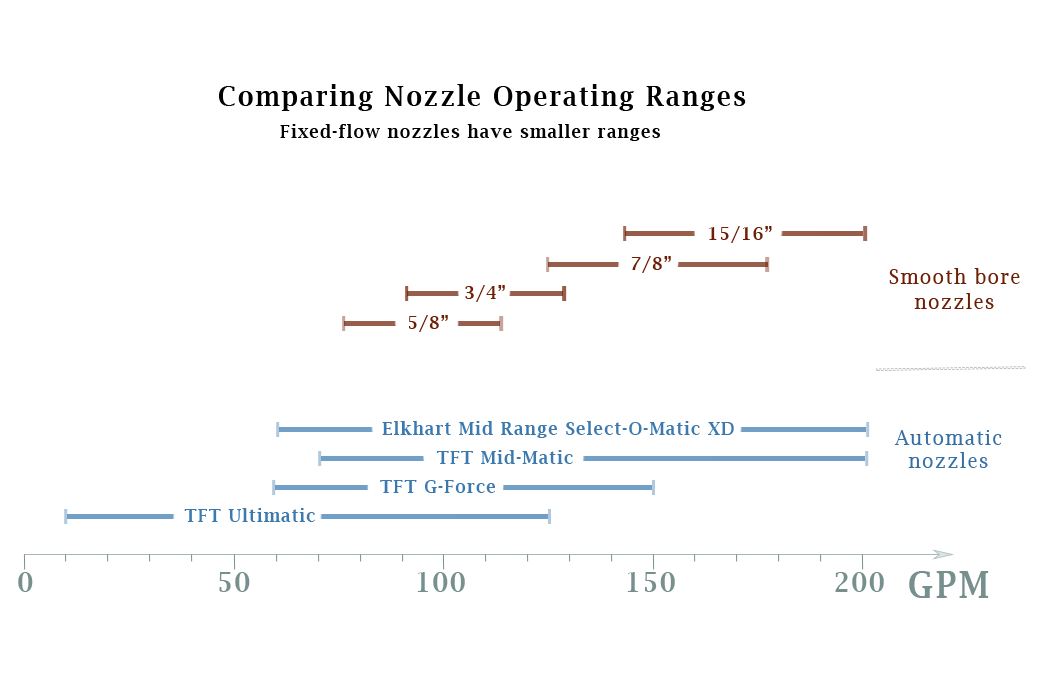
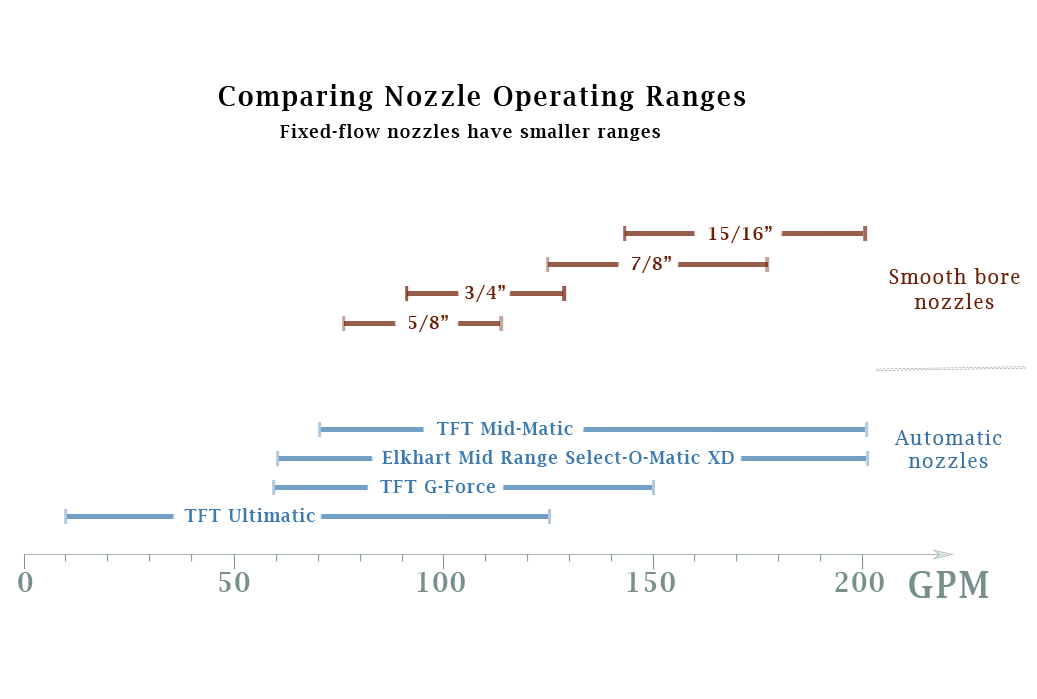
Tweaked layout of flow range graphic and gpm page

Changed region(s): [[0.3394, 0.6009, 0.7097, 0.691], [0.2469, 0.6009, 0.3086, 0.6609]]

diff --git a/AutomaticNozzles.html b/AutomaticNozzles.html
@@ -47,7 +47,7 @@
   </h1>
 	
  <div id="DocSubtitle"><span style="font-size:9px;line-height:80%">By Bob Bourgeois</span><br>
-	<span style="font-size:.5rem;line-height:.2">1st draft 22Jul21&nbsp;&nbsp;&nbsp;&nbsp; Latest rev 06Apr23<br>Feedback/Qs roomfiresetc@gmail.com</span></div> 
+	<span style="font-size:.5rem;line-height:.2">1st draft 22Jul21&nbsp;&nbsp;&nbsp;&nbsp; Latest rev 07Apr23<br>Feedback/Qs roomfiresetc@gmail.com</span></div> 
 	
 	
 </header>
@@ -141,7 +141,7 @@
 	<p>When chasing fire through the voids of a building, the wide pattern is an option to quickly wet inaccessible surfaces behind kneewalls, in cocklofts, etc.</p>
 	<p><figure>
 		<img src="images/SharpAngle3.png"  alt="" style="padding-left:4em;width:50%;"/>
-		<figcaption>&nbsp;&nbsp;&nbsp;&nbsp;&nbsp;&nbsp;&nbsp;&nbsp;&nbsp;&nbsp;&nbsp;&nbsp;&nbsp;&nbsp;&nbsp;&nbsp;Fig.1&nbsp;  Applying water at a sharp angle.</figcaption>
+		<figcaption>&nbsp;&nbsp;&nbsp;&nbsp;&nbsp;&nbsp;&nbsp;&nbsp;&nbsp;&nbsp;&nbsp;&nbsp;&nbsp;&nbsp;&nbsp;&nbsp;Fig.2&nbsp;  Applying water at a sharp angle.</figcaption>
 		</figure></p>
 	
 	</section>

diff --git a/GPM.html b/GPM.html
@@ -69,7 +69,6 @@
 	<li>There are always tradeoffs.&nbsp; Margin increases come at a price.</li>
 	</ul>
 	
-<br>
 	
 	
 <p>The main gpm safety margins are for <strong>knockdown</strong> and <strong>flow reduction</strong>.&nbsp; You want to be okay if knocking the fire somehow requires more water than expected.&nbsp; You also want to be okay if a kink or some other mishap reduces your flow.</p>
